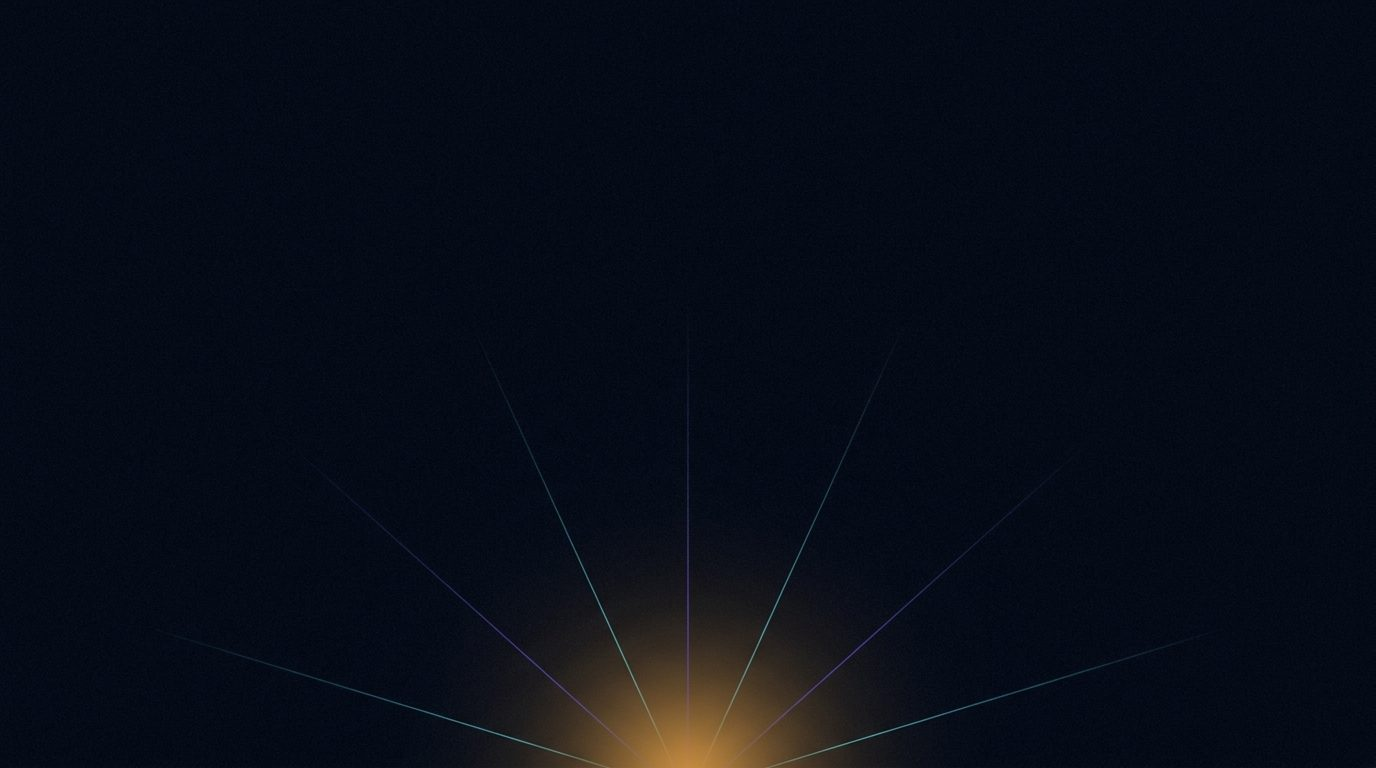
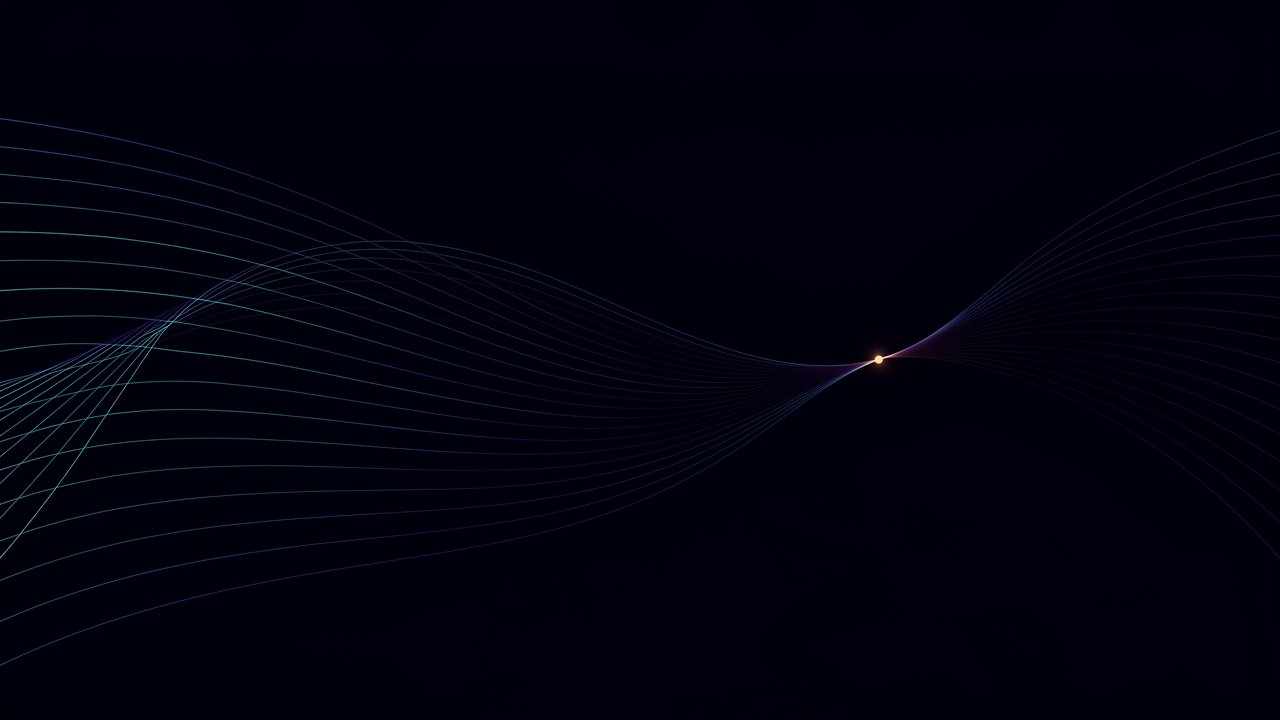
chore: publish site update

diff --git a/index.html b/index.html
@@ -16,7 +16,9 @@
   <meta property="og:image" content="https://novaiflow.com/assets/og-nova.jpg">
   <meta name="twitter:card" content="summary_large_image">
 
-  <link rel="icon" href="favicon.svg" type="image/svg+xml">
+  <link rel="icon" href="favicon-32.png" sizes="32x32" type="image/png">
+  <link rel="icon" href="icon-512.png" sizes="512x512" type="image/png">
+  <link rel="apple-touch-icon" href="apple-touch-icon.png">
   <link rel="preconnect" href="https://fonts.googleapis.com">
   <link rel="preconnect" href="https://fonts.gstatic.com" crossorigin>
   <link href="https://fonts.googleapis.com/css2?family=Space+Grotesk:wght@500;600;700&family=Inter:wght@400;500;600&family=JetBrains+Mono:wght@400;500&display=swap" rel="stylesheet">